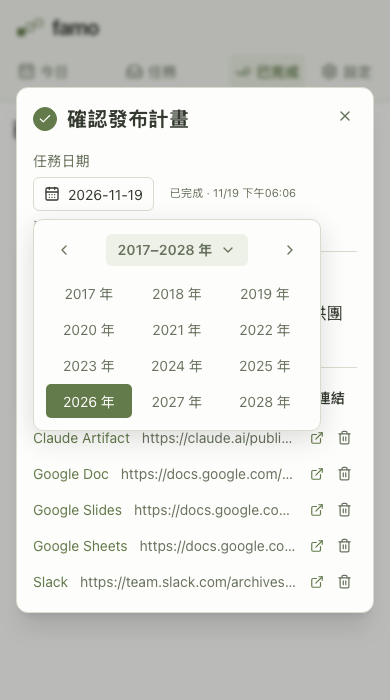
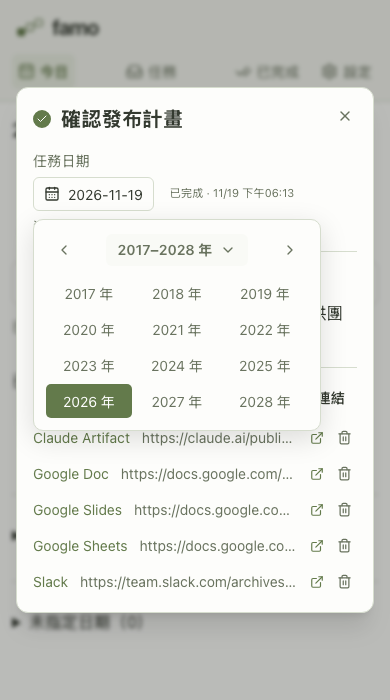
fix: use a smaller outlined task completion checkbox

diff --git a/web/e2e/workbench.spec.ts b/web/e2e/workbench.spec.ts
@@ -116,6 +116,15 @@ test('備註直接編輯、Agent 更新與版本衝突', async ({ page, request 
     name: '編輯任務標題',
     exact: true,
   })
+  await expect(completion).toHaveCSS('width', '18px')
+  await expect(completion).toHaveCSS('height', '18px')
+  await expect(completion).toHaveCSS('background-color', 'rgba(0, 0, 0, 0)')
+  await expect(completion).toHaveCSS('border-top-width', '2px')
+  await expect(completion).toHaveCSS('border-top-style', 'solid')
+  const radius = await completion.evaluate((element) =>
+    Number.parseFloat(getComputedStyle(element).borderTopLeftRadius),
+  )
+  expect(radius).toBeGreaterThanOrEqual(9)
   const checkboxBox = (await completion.boundingBox())!
   const titleBox = (await titleButton.boundingBox())!
   expect(checkboxBox.x + checkboxBox.width).toBeLessThan(titleBox.x)

diff --git a/web/src/App.tsx b/web/src/App.tsx
@@ -569,7 +569,7 @@ function Detail({
     >
       <div className="detail-heading">
         <Checkbox
-          className="detail-completion size-6 rounded-full"
+          className="detail-completion size-4.5 rounded-full border-2 border-primary bg-transparent [&_svg]:size-3"
           checked={completed}
           disabled={busy}
           aria-label={completed ? '恢復為未完成' : '完成任務'}

diff --git a/web/src/index.css b/web/src/index.css
@@ -1253,7 +1253,7 @@ input.todo-title {
   margin-bottom: 16px;
 }
 .detail-completion {
-  margin-top: 3px;
+  margin-top: 6px;
 }
 .detail-heading .dialog-title {
   min-width: 0;
